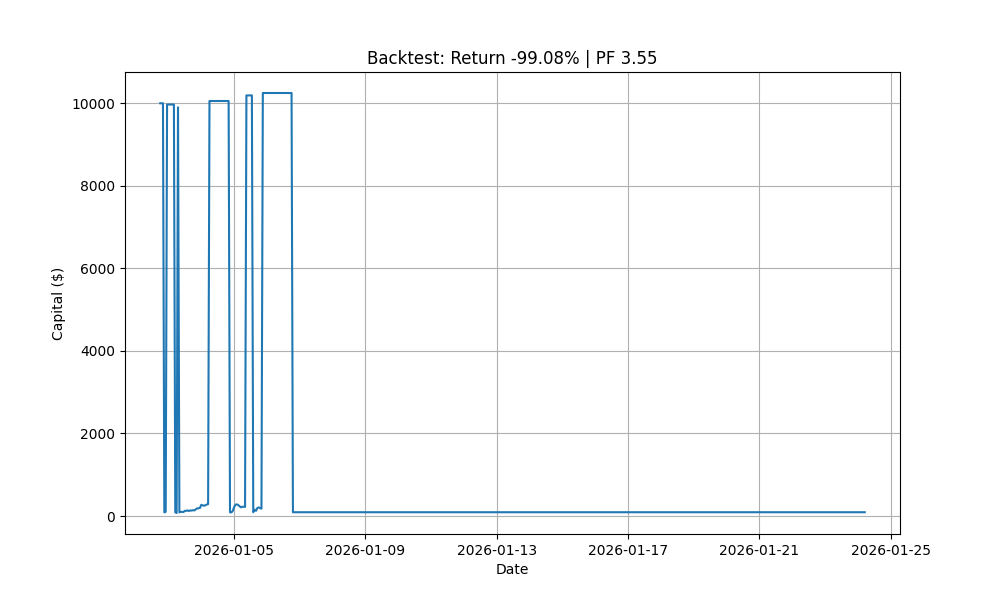
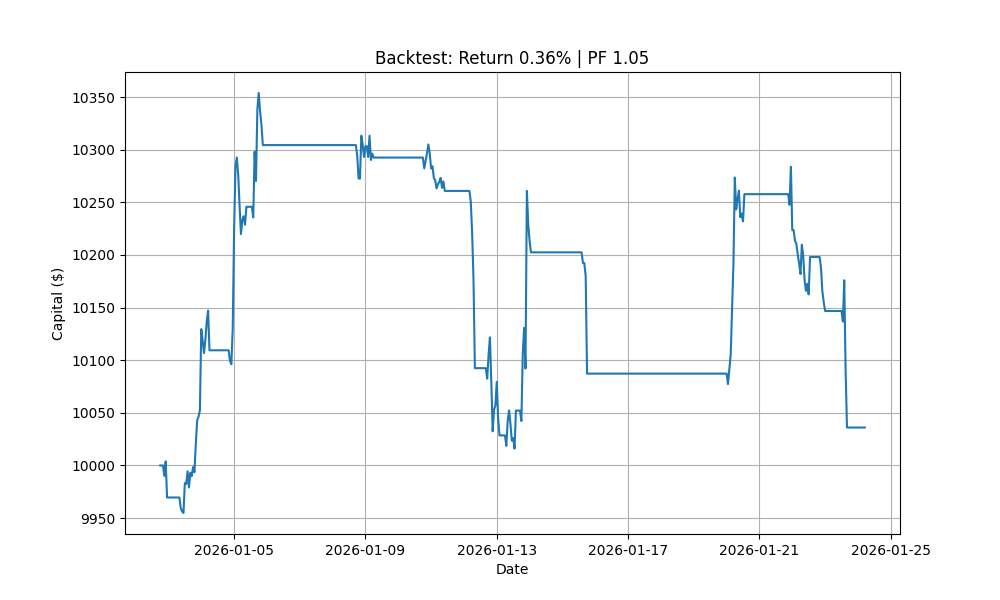
fix: tuning agresivo para activar trades en backtest

diff --git a/backtest_engine.py b/backtest_engine.py
@@ -62,13 +62,26 @@ class BacktestEngine:
         
         print("Starting Simulation...")
         
+        # PRE-CALCULATE EMA 200 FOR TREND FILTER
+        # Using pandas ewm or rolling. standard is EMA.
+        # df['ema200'] = df['close'].ewm(span=200, adjust=False).mean()
+        # Or using ta library if preferred, but pandas is faster/easier here without extra imports if not needed.
+        # Let's use simple pandas calculation for speed.
+        df['ema200'] = df['close'].ewm(span=200, adjust=False).mean()
+        
         start_idx = 205
+        self.cooldown = 0 # Cooldown counter in candles
         
         for i in range(start_idx, len(df)):
+            # Update cooldown
+            if self.cooldown > 0:
+                self.cooldown -= 1
+                
             current_df = df.iloc[:i+1].copy()
             current_candle = current_df.iloc[-1]
             current_price = current_candle['close']
             current_time = current_candle['timestamp']
+            current_ema200 = current_candle['ema200']
             
             # 1. Run Analysis
             module_results = {}
@@ -85,16 +98,16 @@ class BacktestEngine:
             consensus_signal = consensus_result.get('signal', consensus_result.get('details', {}).get('avg_signal', 0.0))
             recommendation = consensus_result.get('recommendation', 'NEUTRAL')
             
-            # Use 'signal' key if available directly (some versions of consensus return it)
-            # If not, try to map recommendation to signal for consistency
+            # Use 'signal' key if available directly
             if 'signal' not in consensus_result:
                 if recommendation == 'long': consensus_signal = 0.8
                 elif recommendation == 'short': consensus_signal = -0.8
             
             # --- VERBOSE DEBUG ---
-            if self.verbose and i % 24 == 0: # Print once a day roughly or interesting ones
-                 if abs(consensus_signal) > 0.25:
-                    print(f"[{current_time}] Score: {consensus_signal:.2f} | Rec: {recommendation}")
+            if self.verbose and i % 24 == 0:
+                 if abs(consensus_signal) > 0.3:
+                    trend_status = "BULL" if current_price > current_ema200 else "BEAR"
+                    print(f"[{current_time}] Score: {consensus_signal:.2f} | Trend: {trend_status} | SMC: {module_results.get('smc_ict', {}).get('recommendation')} | CD: {self.cooldown}")
 
             # 3. Risk Params
             hedging_info = module_results.get('dynamic_hedging', {})
@@ -106,7 +119,8 @@ class BacktestEngine:
                 current_price, current_time, 
                 consensus_signal, recommendation, 
                 stop_long, stop_short, 
-                module_results
+                module_results,
+                current_ema200
             )
             
             # 5. Track Equity
@@ -114,12 +128,9 @@ class BacktestEngine:
             
             if self.position:
                 if self.position['type'] == 'long':
-                    # Equity = Cash + Asset Value
                     asset_value = self.position['size'] * current_price
                     current_equity = self.balance + asset_value
                 elif self.position['type'] == 'short':
-                    # Equity = Cash + Unrealized PnL (Entry - Current) * Size
-                    # Note: We did NOT subtract full value from balance on entry for shorts
                     unrealized_pnl = (self.position['entry_price'] - current_price) * self.position['size']
                     current_equity = self.balance + unrealized_pnl
             
@@ -134,7 +145,7 @@ class BacktestEngine:
 
         self._generate_report()
 
-    def _manage_positions(self, price, timestamp, consensus_signal, recommendation, stop_long, stop_short, module_results):
+    def _manage_positions(self, price, timestamp, consensus_signal, recommendation, stop_long, stop_short, module_results, ema200):
         
         # Check Exits
         if self.position:
@@ -153,69 +164,72 @@ class BacktestEngine:
             div_rec = module_results.get('yield_anomaly', {}).get('recommendation', 'neutral')
             
             if self.position['type'] == 'long':
-                # Exit Long if signal flips short
-                if consensus_signal < -0.25 or (divergence and div_rec == 'short'):
+                if consensus_signal < -0.30 or (divergence and div_rec == 'short'):
                     self._close_position(price, timestamp, "Take Profit/Reversal")
                     return
             elif self.position['type'] == 'short':
-                # Exit Short if signal flips long
-                if consensus_signal > 0.25 or (divergence and div_rec == 'long'):
+                if consensus_signal > 0.30 or (divergence and div_rec == 'long'):
                     self._close_position(price, timestamp, "Take Profit/Reversal")
                     return
 
         # Check Entries
-        if not self.position:
+        # COOLDOWN CHECK and Trend Filter
+        if not self.position and self.cooldown == 0:
+            
             # LONG ENTRY
-            if consensus_signal > 0.25:
-                # Max Risk 1% of Equity? Or Full size?
-                # User prompt implied full size earlier, let's stick to simple "All In" model with buffer
-                
-                # Equity estimate
-                equity = self.balance # No position, so equity = balance
-                
-                # Size calculation (99% of capital)
-                size_asset = (equity * 0.99) / price
-                cost = size_asset * price
-                fee = cost * self.commission_rate
-                
-                if (cost + fee) > self.balance:
-                    size_asset = (self.balance - fee) / price
-                
-                # DEDUCT CASH for Long
-                self.balance -= (size_asset * price + fee)
-                
-                self.position = {
-                    'type': 'long',
-                    'entry_price': price,
-                    'size': size_asset,
-                    'stop_loss': stop_long,
-                    'entry_time': timestamp
-                }
-                print(f"[{timestamp}] BUY LONG @ {price:.2f} (Signal: {consensus_signal:.2f})")
-                
+            # Signal > 0.30 AND Price > EMA 200
+            if consensus_signal > 0.30:
+                if price > ema200:
+                    capital = self.balance
+                    size_asset = (capital * 0.99) / price # Use available cash
+                    
+                    cost = size_asset * price
+                    fee = cost * self.commission_rate
+                    
+                    if (cost + fee) > self.balance:
+                        size_asset = (self.balance - fee) / price
+                    
+                    self.balance -= (size_asset * price + fee)
+                    
+                    self.position = {
+                        'type': 'long',
+                        'entry_price': price,
+                        'size': size_asset,
+                        'stop_loss': stop_long,
+                        'entry_time': timestamp
+                    }
+                    print(f"[{timestamp}] BUY LONG @ {price:.2f} (Score: {consensus_signal:.2f} > 0.3 | > EMA200)")
+                else:
+                    if self.verbose and consensus_signal > 0.4:
+                        print(f"[{timestamp}] FILTERED LONG: Price ({price:.2f}) < EMA200 ({ema200:.2f})")
+
             # SHORT ENTRY
-            elif consensus_signal < -0.25:
-                # SHORT LOGIC (CFD/Margin Style)
-                # We DO NOT deduct full cost from balance. We only deduct fee.
-                # We use balance as collateral.
-                
-                equity = self.balance
-                size_asset = (equity * 0.99) / price # Leverage 1:1 roughly
-                
-                # Initial Fee
-                notional_value = size_asset * price
-                fee = notional_value * self.commission_rate
-                
-                self.balance -= fee 
-                
-                self.position = {
-                    'type': 'short',
-                    'entry_price': price,
-                    'size': size_asset,
-                    'stop_loss': stop_short,
-                    'entry_time': timestamp
-                }
-                print(f"[{timestamp}] SELL SHORT @ {price:.2f} (Signal: {consensus_signal:.2f})")
+            # Signal < -0.30 AND Price < EMA 200
+            elif consensus_signal < -0.30:
+                if price < ema200:
+                    equity = self.balance
+                    size_asset = (equity * 0.99) / price
+                    
+                    notional_value = size_asset * price
+                    fee = notional_value * self.commission_rate
+                    
+                    if fee > self.balance:
+                         # Not enough for fee
+                         return
+                    
+                    self.balance -= fee 
+                    
+                    self.position = {
+                        'type': 'short',
+                        'entry_price': price,
+                        'size': size_asset,
+                        'stop_loss': stop_short,
+                        'entry_time': timestamp
+                    }
+                    print(f"[{timestamp}] SELL SHORT @ {price:.2f} (Score: {consensus_signal:.2f} < -0.3 | < EMA200)")
+                else:
+                    if self.verbose and consensus_signal < -0.4:
+                         print(f"[{timestamp}] FILTERED SHORT: Price ({price:.2f}) > EMA200 ({ema200:.2f})")
 
     def _close_position(self, price, timestamp, reason):
         if not self.position: return
@@ -310,17 +324,23 @@ class BacktestEngine:
             equity_series['dd'] = (equity_series['peak'] - equity_series['equity']) / equity_series['peak']
             max_dd = equity_series['dd'].max() * 100
             
-        print(f"Final Balance:  ${self.balance:,.2f}")
-        print(f"Total Return:   {percent_return:.2f}%")
-        print(f"Win Rate:       {win_rate:.2f}%")
-        print(f"Profit Factor:  {profit_factor:.2f}")
-        print(f"Max Drawdown:   {max_dd:.2f}%")
-        print(f"Total Trades:   {len(self.trades)}")
+        report_str = f"""
+--- PERFORMANCE REPORT ---
+Final Balance:  ${self.balance:,.2f}
+Total Return:   {percent_return:.2f}%
+Win Rate:       {win_rate:.2f}%
+Profit Factor:  {profit_factor:.2f}
+Max Drawdown:   {max_dd:.2f}%
+Total Trades:   {len(self.trades)}
+"""
+        print(report_str)
+        with open('backtest_report.txt', 'w') as f:
+            f.write(report_str)
         
         if not equity_series.empty:
             plt.figure(figsize=(10,6))
             plt.plot(equity_series['timestamp'], equity_series['equity'])
-            plt.title(f"Backtest: Return {percent_return:.2f}% | PF {profit_factor:.2f} | Trades {len(self.trades)}")
+            plt.title(f"Backtest: Return {percent_return:.2f}% | PF {profit_factor:.2f}")
             plt.xlabel("Date")
             plt.ylabel("Capital ($)")
             plt.grid(True)
